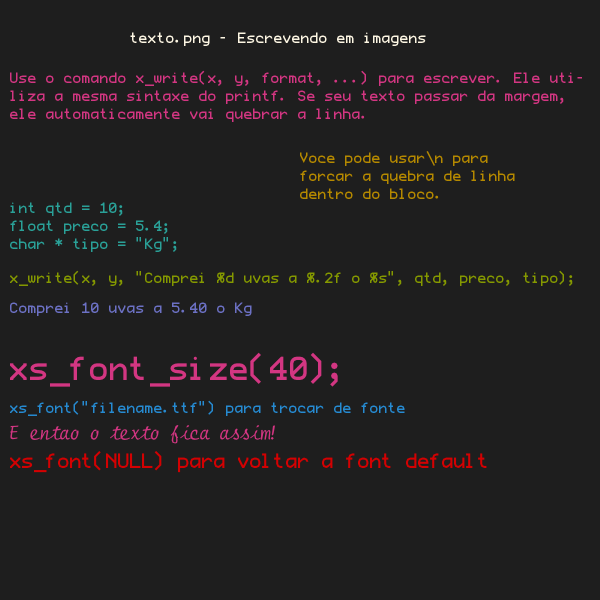
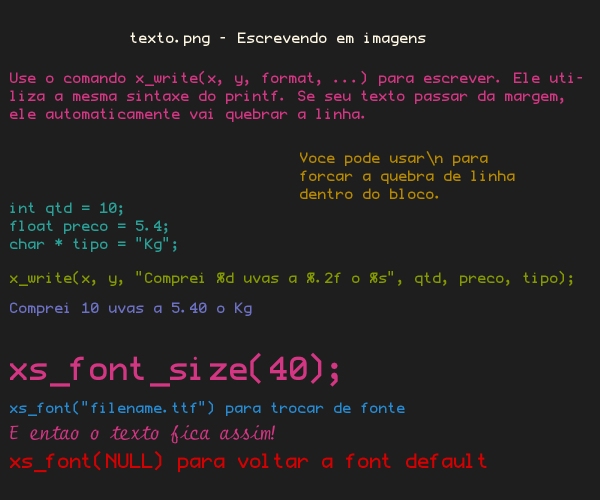
corrigindo exemplo do texto

diff --git a/exemplo_texto.c b/exemplo_texto.c
@@ -1,7 +1,7 @@
 #include "xpaint.h"
 
 int main() {
-    x_open(600, 600);
+    x_open(600, 500);
     xs_font_size(18);
     xs_color(WHITE);
     x_write(130, 30, "texto.png - Escrevendo em imagens");
